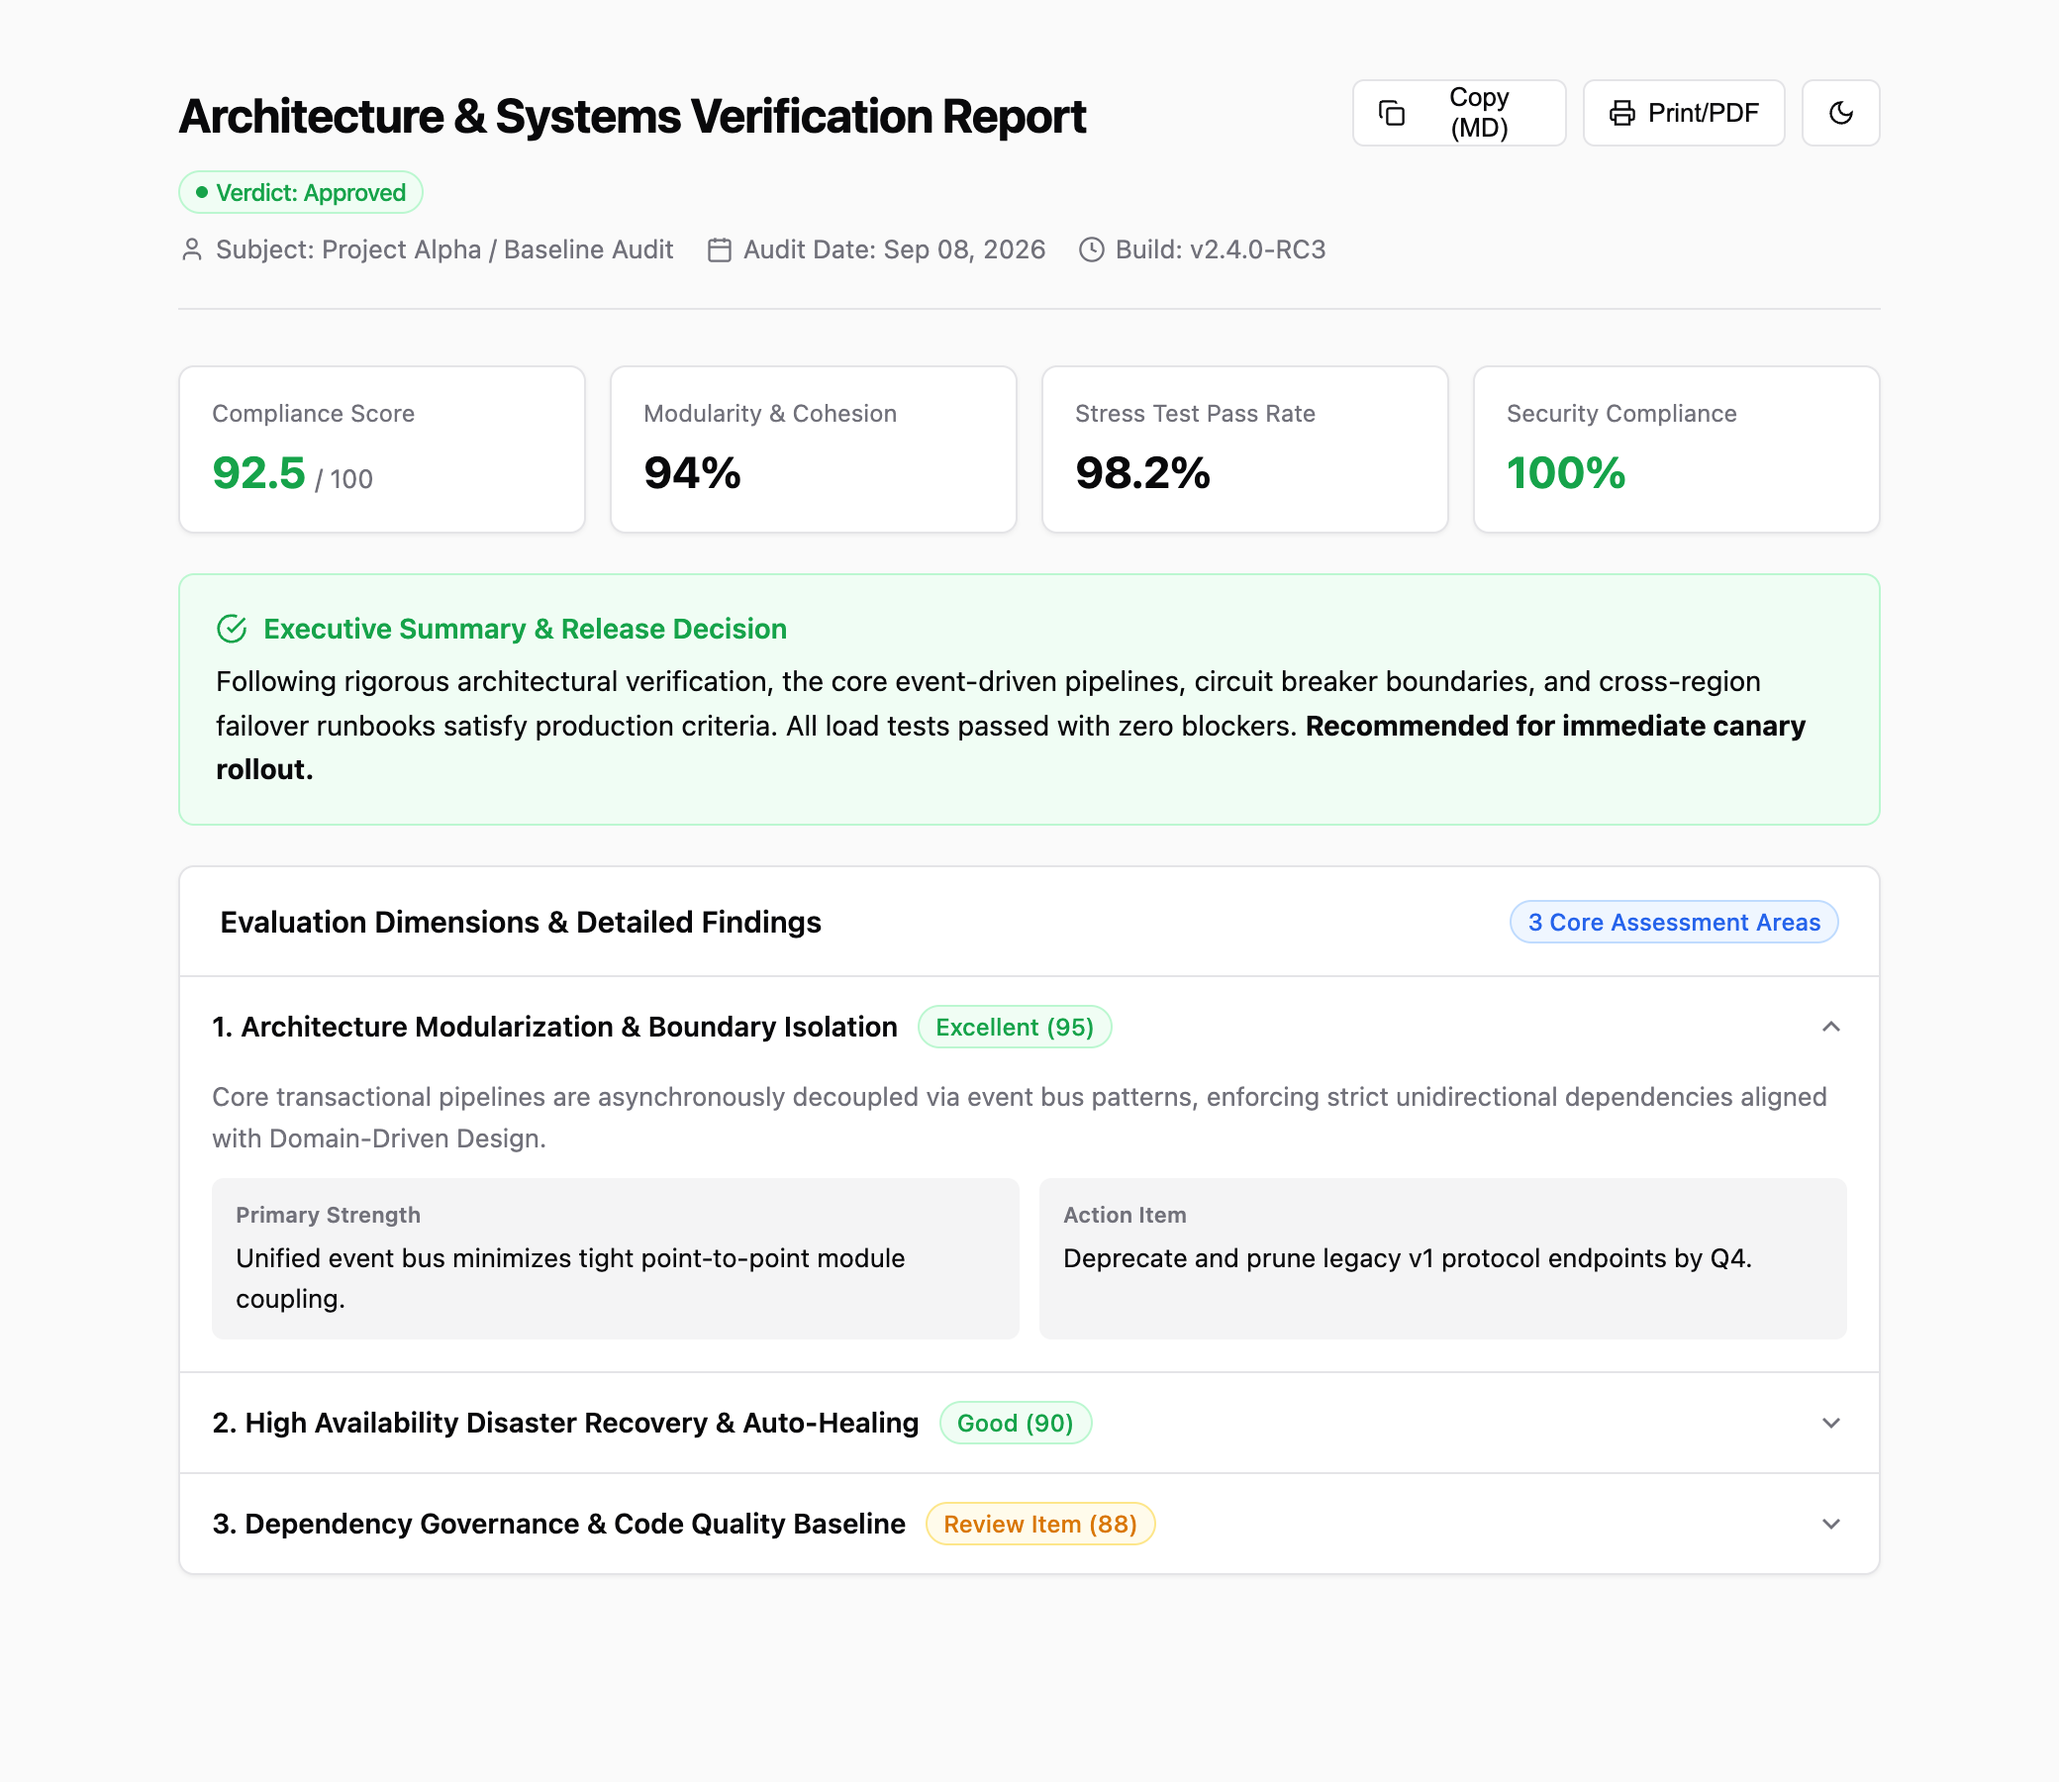
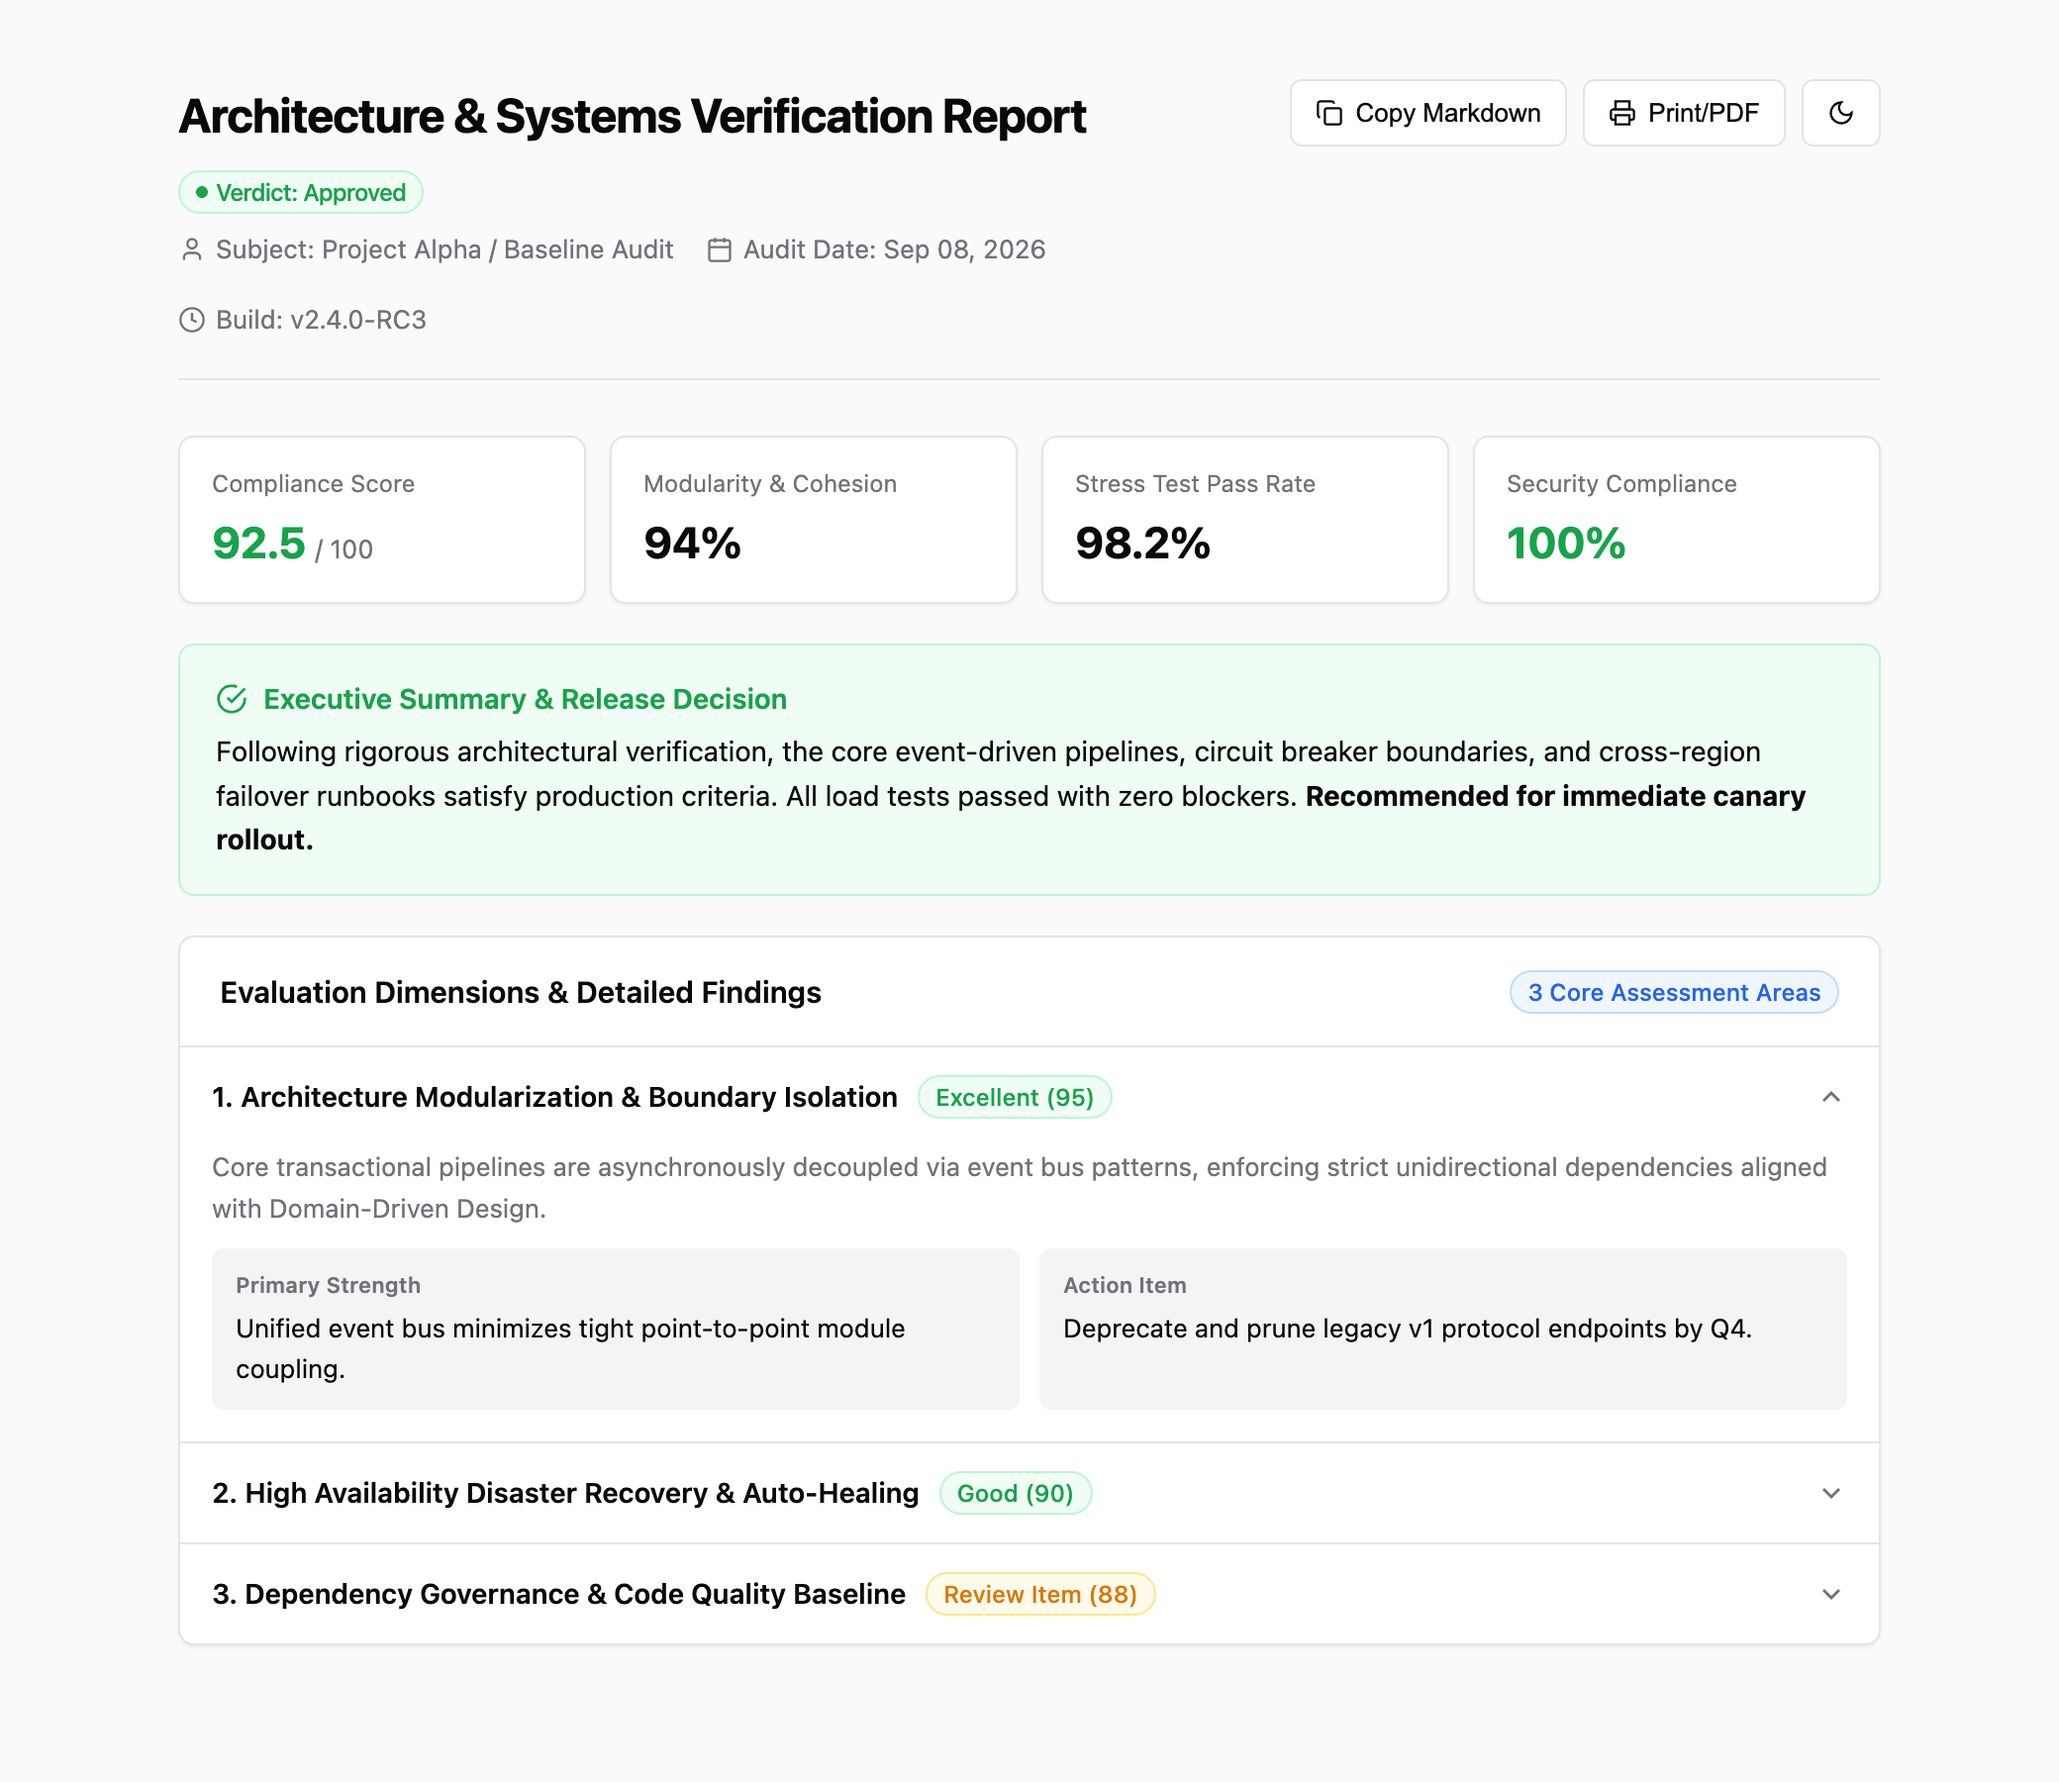
fix(ui): prevent button text wrap on report action bar and update en/report screenshot

diff --git a/skills/agent-html/assets/templates/en/report.html b/skills/agent-html/assets/templates/en/report.html
@@ -84,6 +84,7 @@
     /* Header */
     .report-header {
       display: flex;
+      gap: 16px;
       justify-content: space-between;
       align-items: flex-start;
       margin-bottom: 28px;
@@ -114,6 +115,8 @@
     }
     .actions {
       display: flex;
+      align-items: center;
+      flex-shrink: 0;
       gap: 8px;
     }
 
@@ -125,6 +128,7 @@
       font-size: 13px;
       font-weight: 500;
       height: 34px;
+      white-space: nowrap;
       padding: 0 12px;
       border-radius: var(--radius-sm);
       border: 1px solid var(--border);
@@ -288,7 +292,7 @@
     <div class="actions">
       <button class="btn" onclick="copyMarkdownReport()" title="Copy as clean Markdown">
         <svg width="14" height="14" viewBox="0 0 24 24" fill="none" stroke="currentColor" stroke-width="2"><rect width="14" height="14" x="8" y="8" rx="2" ry="2"/><path d="M4 16c-1.1 0-2-.9-2-2V4c0-1.1.9-2 2-2h10c1.1 0 2 .9 2 2"/></svg>
-        <span id="copyBtnText">Copy (MD)</span>
+        <span id="copyBtnText">Copy Markdown</span>
       </button>
       <button class="btn" onclick="window.print()" title="Print or save as PDF">
         <svg width="14" height="14" viewBox="0 0 24 24" fill="none" stroke="currentColor" stroke-width="2"><polyline points="6 9 6 2 18 2 18 9"/><path d="M6 18H4a2 2 0 0 1-2-2v-5a2 2 0 0 1 2-2h16a2 2 0 0 1 2 2v5a2 2 0 0 1-2 2h-2"/><rect width="12" height="8" x="6" y="14"/></svg>
@@ -422,7 +426,7 @@ Following rigorous architectural verification, the core event-driven pipelines, 
     navigator.clipboard.writeText(md).then(() => {
       const btn = document.getElementById('copyBtnText');
       btn.textContent = 'Copied!';
-      setTimeout(() => { btn.textContent = 'Copy (MD)'; }, 1500);
+      setTimeout(() => { btn.textContent = 'Copy Markdown'; }, 1500);
     });
   }
 </script>

diff --git a/skills/agent-html/assets/templates/en/compare.html b/skills/agent-html/assets/templates/en/compare.html
@@ -84,6 +84,7 @@
     /* Top Bar */
     .compare-header {
       display: flex;
+      gap: 16px;
       justify-content: space-between;
       align-items: flex-start;
       margin-bottom: 24px;
@@ -107,7 +108,9 @@
       color: var(--muted-fg);
       margin-top: 6px;
     }
-    .actions { display: flex; gap: 8px; }
+    .actions { display: flex;
+      align-items: center;
+      flex-shrink: 0; gap: 8px; }
 
     /* Buttons & Badges */
     .btn {
@@ -117,6 +120,7 @@
       font-size: 13px;
       font-weight: 500;
       height: 34px;
+      white-space: nowrap;
       padding: 0 12px;
       border-radius: var(--radius-sm);
       border: 1px solid var(--border);

diff --git a/skills/agent-html/assets/templates/en/timeline.html b/skills/agent-html/assets/templates/en/timeline.html
@@ -84,6 +84,7 @@
     /* Header */
     .timeline-header {
       display: flex;
+      gap: 16px;
       justify-content: space-between;
       align-items: flex-start;
       margin-bottom: 24px;
@@ -107,7 +108,9 @@
       color: var(--muted-fg);
       margin-top: 6px;
     }
-    .actions { display: flex; gap: 8px; }
+    .actions { display: flex;
+      align-items: center;
+      flex-shrink: 0; gap: 8px; }
 
     /* Buttons & Badges */
     .btn {
@@ -117,6 +120,7 @@
       font-size: 13px;
       font-weight: 500;
       height: 34px;
+      white-space: nowrap;
       padding: 0 12px;
       border-radius: var(--radius-sm);
       border: 1px solid var(--border);

diff --git a/skills/agent-html/assets/templates/en/dashboard.html b/skills/agent-html/assets/templates/en/dashboard.html
@@ -84,6 +84,7 @@
     /* Top Bar */
     .dashboard-header {
       display: flex;
+      gap: 16px;
       justify-content: space-between;
       align-items: center;
       margin-bottom: 24px;
@@ -101,6 +102,8 @@
     .header-actions {
       display: flex;
       align-items: center;
+      flex-shrink: 0;
+      align-items: center;
       gap: 10px;
     }
 
@@ -112,6 +115,7 @@
       font-size: 13px;
       font-weight: 500;
       height: 34px;
+      white-space: nowrap;
       padding: 0 12px;
       border-radius: var(--radius-sm);
       border: 1px solid var(--border);

diff --git a/skills/agent-html/assets/templates/en/kanban.html b/skills/agent-html/assets/templates/en/kanban.html
@@ -103,7 +103,9 @@
       font-weight: 700;
       letter-spacing: -0.02em;
     }
-    .actions { display: flex; gap: 8px; }
+    .actions { display: flex;
+      align-items: center;
+      flex-shrink: 0; gap: 8px; }
 
     /* Buttons & Badges */
     .btn {
@@ -113,6 +115,7 @@
       font-size: 13px;
       font-weight: 500;
       height: 32px;
+      white-space: nowrap;
       padding: 0 12px;
       border-radius: var(--radius-sm);
       border: 1px solid var(--border);

diff --git a/skills/agent-html/assets/templates/en/inspector.html b/skills/agent-html/assets/templates/en/inspector.html
@@ -114,6 +114,7 @@
       font-size: 13px;
       font-weight: 500;
       height: 32px;
+      white-space: nowrap;
       padding: 0 10px;
       border-radius: var(--radius-sm);
       border: 1px solid var(--border);
